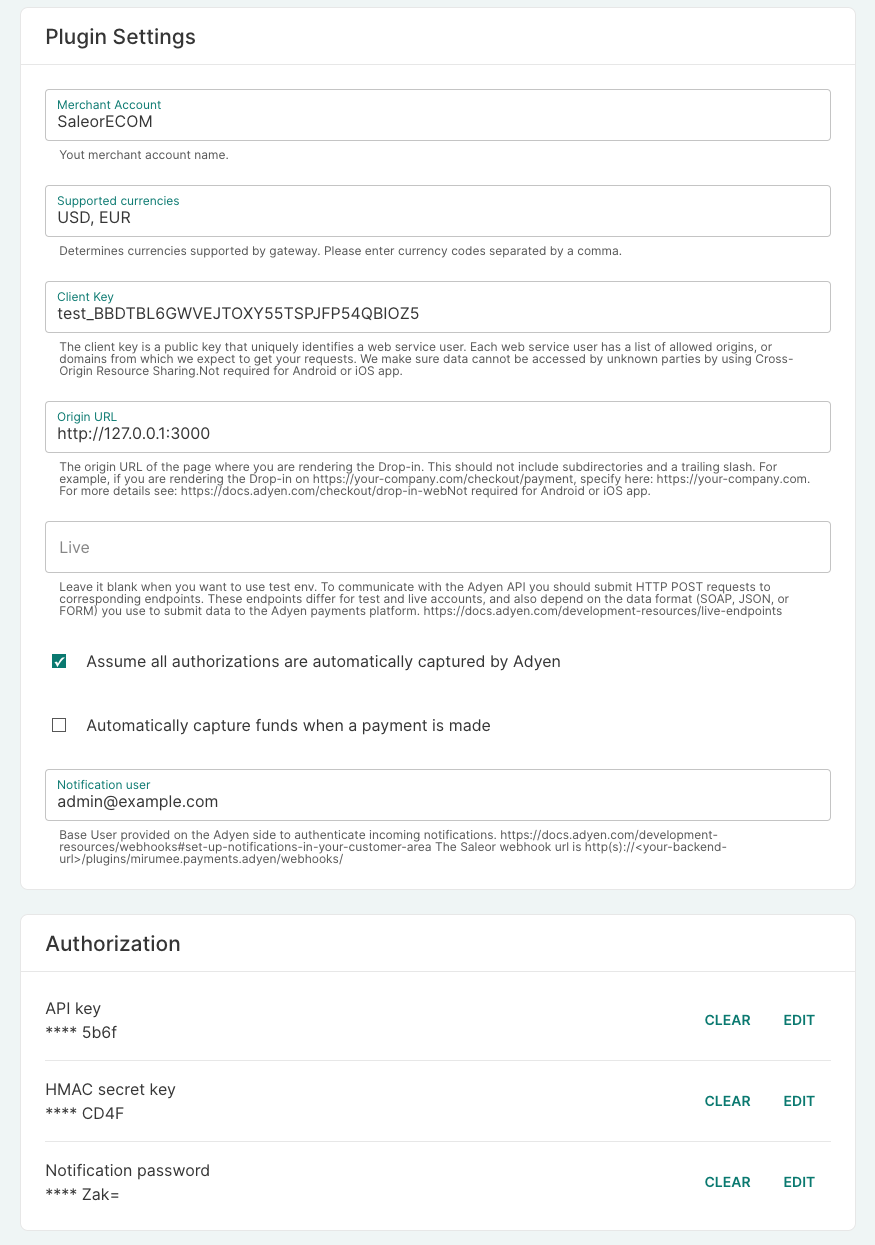
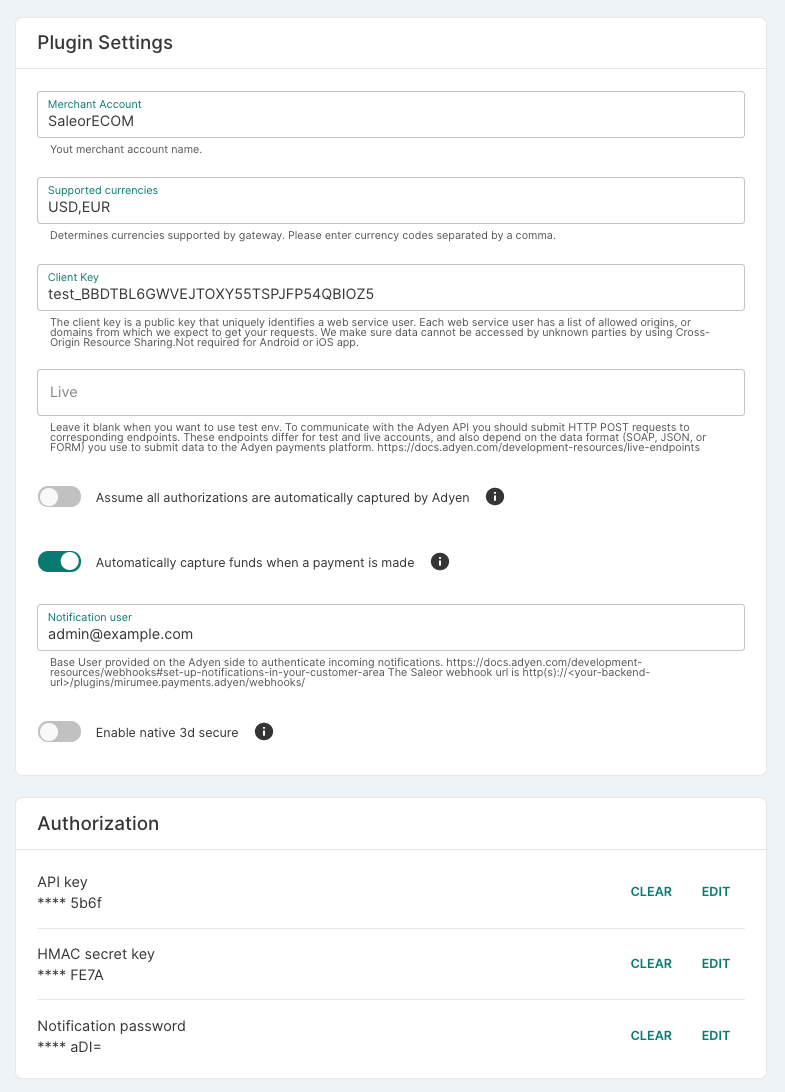
Update the settings and screenshot

diff --git a/docs/dashboard/configuration/plugins.md b/docs/dashboard/configuration/plugins.md
@@ -54,8 +54,6 @@ Go to _Configuration_ -> _Plugins_ -> _Adyen_ and fill in the fields:
 
 - **Client Key:** The client key is a public key that uniquely identifies a web service. See [Adyen docs](https://docs.adyen.com/user-management/client-side-authentication#get-your-client-key).
 
-- **Origin URL:** The origin URL of the page where you are rendering the Adyen Drop-in. The origin URL of the page where you are rendering the Drop-in. This should not include subdirectories or a trailing slash. For example, if you are rendering the Drop-in on `https://your-company.com/checkout/payment`, put in: `https://your-company.com` as the origin. See [Adyen docs](https://docs.adyen.com/checkout/drop-in-web).
-
 - **Live:** Leave it blank if you want to use the test environment. See [Adyen docs for production environments](https://docs.adyen.com/development-resources/live-endpoints).
 
 - **Assume all authorizations are automatically captured by Adyen:** All authorized payments will be marked as captured. This should only be enabled if Adyen is configured to auto-capture payments. Saleor doesn’t support the _delayed capture_ Adyen feature.
@@ -67,6 +65,8 @@ Go to _Configuration_ -> _Plugins_ -> _Adyen_ and fill in the fields:
 - **Notification user:** In addition to checking request signatures, you can confirm received notification by checking the provided user in the notification. Provide a user in the _Authentication_ section of your Adyen customer area and copy it here. See [Adyen docs](https://docs.adyen.com/development-resources/webhooks#set-up-notifications-in-your-customer-area).
 
 - **Notification password:** In addition to checking request signatures, you can confirm received notification by checking the provided user’s password in the notification . Provide a password in the _Authentication_ section of your Adyen customer area and copy it here. See [Adyen docs](https://docs.adyen.com/development-resources/webhooks#set-up-notifications-in-your-customer-area).
+
+- **Enable native 3d secure:** Saleor uses 3D Secure redirect authentication by default. If you want to use native 3D Secure authentication, enable this option. For more details see Adyen documentation: [native-3ds2](https://docs.adyen.com/checkout/3d-secure/native-3ds2), [redirect-3ds2-3ds1](https://docs.adyen.com/checkout/3d-secure/redirect-3ds2-3ds1)
 
 Below you can find an example configuration of the Adyen plugin:
 
